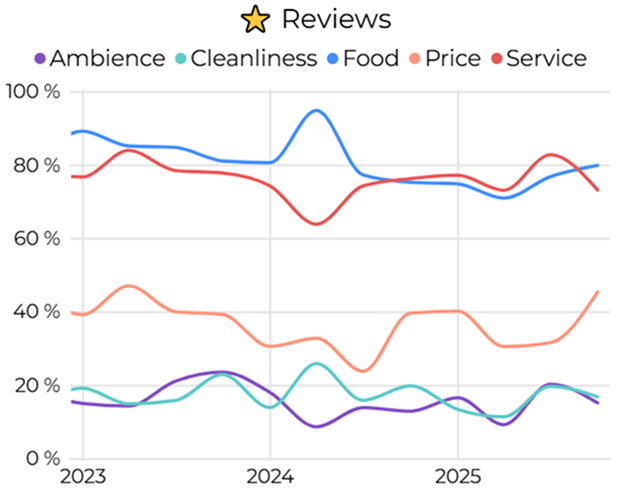
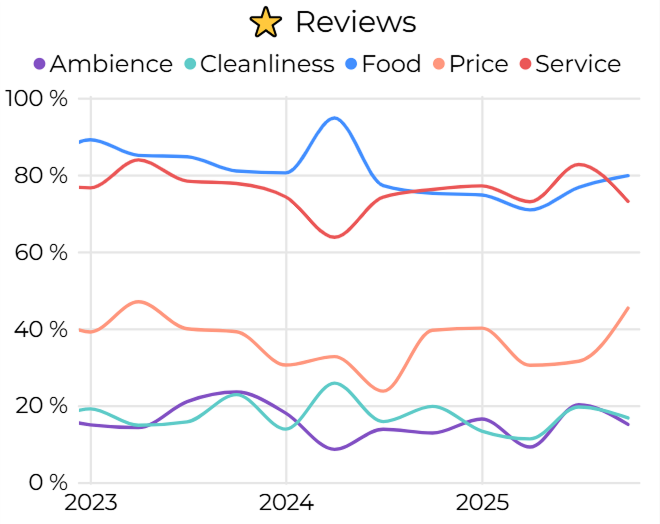
update

diff --git a/app/sentiment_project/sentimentSummary.tsx b/app/sentiment_project/sentimentSummary.tsx
@@ -18,26 +18,18 @@ const SentimentSummary = () => {
       <div className={css.sentiment_summary_mentions_grid}>
         <Image
           className={css.mentions_image}
-          src="/sentiment_images/all_mentions.png"
-          alt="All mentions"
-          width={626}
-          height={496}
-          quality={100}
-        />
-        <Image
-          className={css.mentions_image}
           src="/sentiment_images/2star_mentions.png"
           alt="2 star mentions"
-          width={626}
-          height={496}
+          width={660}
+          height={524}
           quality={100}
         />
         <Image
           className={css.mentions_image}
           src="/sentiment_images/1star_mentions.png"
           alt="1 star mentions"
-          width={626}
-          height={496}
+          width={660}
+          height={524}
           quality={100}
         />
       </div>
@@ -46,33 +38,20 @@ const SentimentSummary = () => {
           <h3>Overview & methodology</h3>
           <ul>
             <li>
-              Prioritization of categories and reasonings behind the ranking is
-              provided in this segment.
+              This section uses <b>“Net Sentiment Score (NSS)”</b> table and
+              <b> "Mention frequency"</b> line charts for 1- and 2-star reviews.
             </li>
             <li>
-              Above is a <b>“Net Sentiment Score (NSS)”</b> table for 1- and
-              2-star reviews per category.
-            </li>
-            <li>
-              NSS score is calculated by subtracting the percentage of negative
-              feedback from the percentage of positive feedback, providing a
-              single number from +100 (all positive) to -100 (all negative),
-              with 0 meaning there are equal amounts of positive and negative
-              feedback.
+              NSS measures the balance of customer sentiment, ranging from +100
+              (all positive) to -100 (all negative).
             </li>
             <li>
               NSS does NOT take neutral sentiments into account. For deeper
-              analysis that also takes neutral feedback into account, see the
-              <b> “Insights deep dive”</b> segment.
+              analysis, see the <b> “Insights deep dive”</b> segment.
             </li>
             <li>
-              Among 1- and 2-star reviews NSS is below zero in almost all areas
-              with some anomalies, like ambience being slightly positive (6)
-              among 2-star ratings in 2025 Q1.
-            </li>
-            <li>
-              Above there are also <b>line charts</b> that show how often
-              category is mentioned out of all reviews by percentage.
+              Mention frequency indicates how often category is mentioned out of
+              all 1- and 2-star reviews by percentage.
             </li>
           </ul>
           <h3>Priority ranking & key drivers</h3>
@@ -92,42 +71,38 @@ const SentimentSummary = () => {
               When service fails, it is the primary driver of lowest ratings.
             </li>
           </ul>
-        </div>
-        <div className={css.sentiment_summary_text_column}>
           <b>Food (2nd priority):</b>
           <ul>
-            <li>Overall, the most discussed category across all reviews.</li>
+            <li>Overall, the most discussed category.</li>
             <li>
               Since food is a common topic with negative sentiment, it is
               considered 2nd priority.
             </li>
             <li>
-              It is slightly below service, because it is not as much of a
-              negative driver for 1- and 2-star ratings.
+              Food is slightly below service, because it is not as much of a
+              negative driver.
             </li>
           </ul>
+        </div>
+        <div className={css.sentiment_summary_text_column}>
           <b> Price (3rd priority):</b>
           <ul>
             <li>
-              Among 1- and 2-star reviews sentiment is almost entirely negative
-              and overall, it is the 3rd most discussed category.
+              Sentiment is mostly negative and overall, it is the 3rd most
+              discussed category.
             </li>
             <li>
               Data suggests that some customers feel the experience (service +
               food) does not justify the cost.
             </li>
             <li>
-              Although price is a big driver for negative sentiment among 1- and
-              2-star reviews, it is discussed way less than food and service,
-              making it a slightly lower priority.
+              Although price is a big driver for negative sentiment, it is
+              discussed way less than food and service, making it a slightly
+              lower priority.
             </li>
           </ul>
           <b>Cleanliness (4th priority):</b>
           <ul>
-            <li>
-              Category with the least amount of neutral sentiment, showing that
-              it only has either positive or negative sentiment.
-            </li>
             <li>
               Sentiment is almost all negative among 1-star reviews and in 2025
               among 2-star reviews.
@@ -140,16 +115,11 @@ const SentimentSummary = () => {
           </ul>
           <b>Ambience (last priority):</b>
           <ul>
-            <li>Overall, ambience has the most neutral sentiment.</li>
-            <li>
-              Compared to all reviews, ambience as a topic goes down among 1-
-              and 2- star reviews. It is sometimes the least discussed topic
-              among 1-star reviews.
-            </li>
+            <li>Sometimes the least discussed topic among 1-star reviews.</li>
+            <li>It has negative sentiment, especially among 1-star reviews.</li>
             <li>
               Ambience is the last priority but that doesn’t mean it’s not
-              important. It has negative sentiment, especially among 1-star
-              reviews.
+              important.
             </li>
           </ul>
         </div>

diff --git a/app/sentiment_project/sentimentInsightsItem.tsx b/app/sentiment_project/sentimentInsightsItem.tsx
@@ -17,24 +17,32 @@ const SentimentInsightsItem = ({ insight }: SentimentInsightsItemProps) => {
             className={css.image}
             src={insight.allImage}
             alt={""}
-            width={623}
-            height={495}
+            width={645}
+            height={513}
             quality={100}
           />
           <Image
             className={css.image}
             src={insight.twoStarImage}
             alt={""}
-            width={623}
-            height={495}
+            width={645}
+            height={513}
             quality={100}
           />
           <Image
             className={css.image}
             src={insight.oneStarImage}
             alt={""}
-            width={623}
-            height={495}
+            width={645}
+            height={513}
+            quality={100}
+          />
+          <Image
+            className={css.image}
+            src={insight.mentionsImage}
+            alt={""}
+            width={645}
+            height={513}
             quality={100}
           />
         </div>

diff --git a/app/sentiment_project/sentimentInsightsItem.module.scss b/app/sentiment_project/sentimentInsightsItem.module.scss
@@ -11,26 +11,30 @@
 
   .item_content {
     display: flex;
-    flex-direction: column-reverse;
-    padding: 0.8em;
+    align-items: flex-start;
 
     .item_text {
-      margin-top: 0.4em;
+      flex: 1;
+      padding: 0.8em;
 
       ul {
         margin: 0;
+        padding-left: 1em;
       }
     }
 
     .item_images {
-      display: flex;
-      gap: 0.5em;
-      justify-content: center;
+      flex: 1;
+      padding: 0.8em;
+      display: grid;
+      grid-template-columns: repeat(2, 1fr);
+      row-gap: 6px;
+      column-gap: 9px;
 
       .image {
-        max-width: 30%;
+        max-width: 98%;
         height: auto;
-        //border: 1px solid lightgray;
+        border: 1px solid lightgray;
         padding: 0.2em;
       }
     }

diff --git a/app/sentiment_project/sentimentInsightsList.tsx b/app/sentiment_project/sentimentInsightsList.tsx
@@ -58,7 +58,7 @@ export const sentimentInsightsList: Insight[] = [
     allImage: "/sentiment_images/service_all.png",
     oneStarImage: "/sentiment_images/service_1star.png",
     twoStarImage: "/sentiment_images/service_2star.png",
-    mentionsImage: "",
+    mentionsImage: "/sentiment_images/service_mentions.png",
   },
   {
     id: 2,

diff --git a/app/sentiment_project/page.tsx b/app/sentiment_project/page.tsx
@@ -25,6 +25,7 @@ const Sentiment = () => {
         <SentimentStructure />
         <hr />
         <SentimentSummary />
+        <br />
         <hr />
         <SentimentInsights />
         <hr />

diff --git a/app/sentiment_project/sentiment.module.scss b/app/sentiment_project/sentiment.module.scss
@@ -5,6 +5,10 @@
   font-size: 1.25rem;
   color: black;
 
+  h2 {
+    text-align: center;
+  }
+
   .sentiment_project {
     max-width: 1280px;
     margin: auto;
